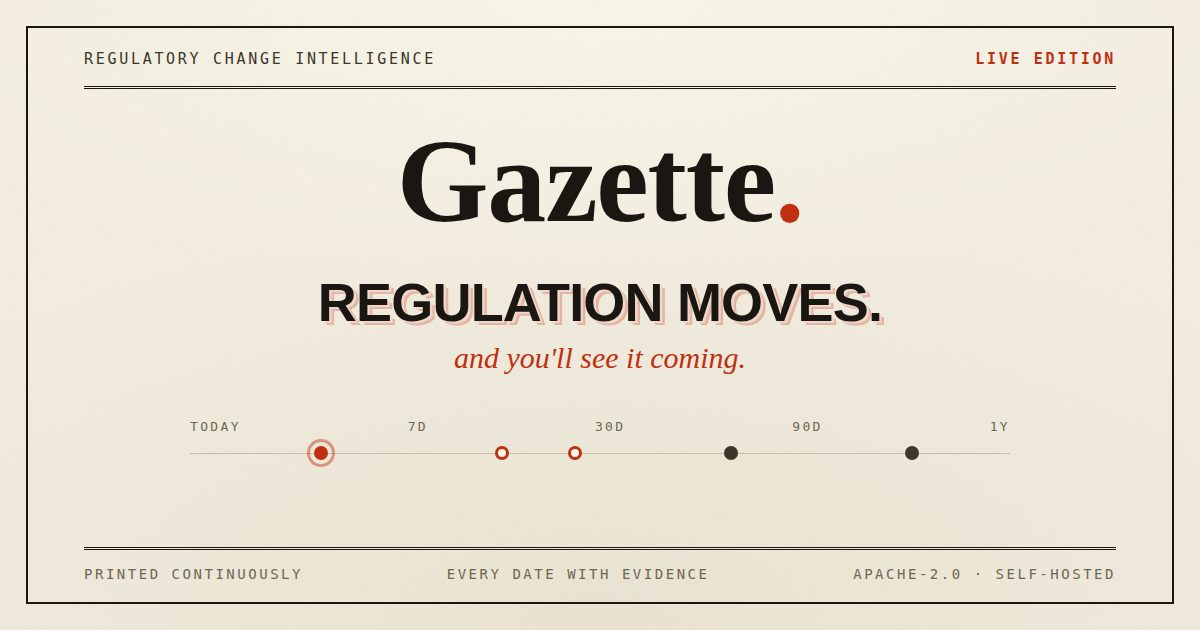
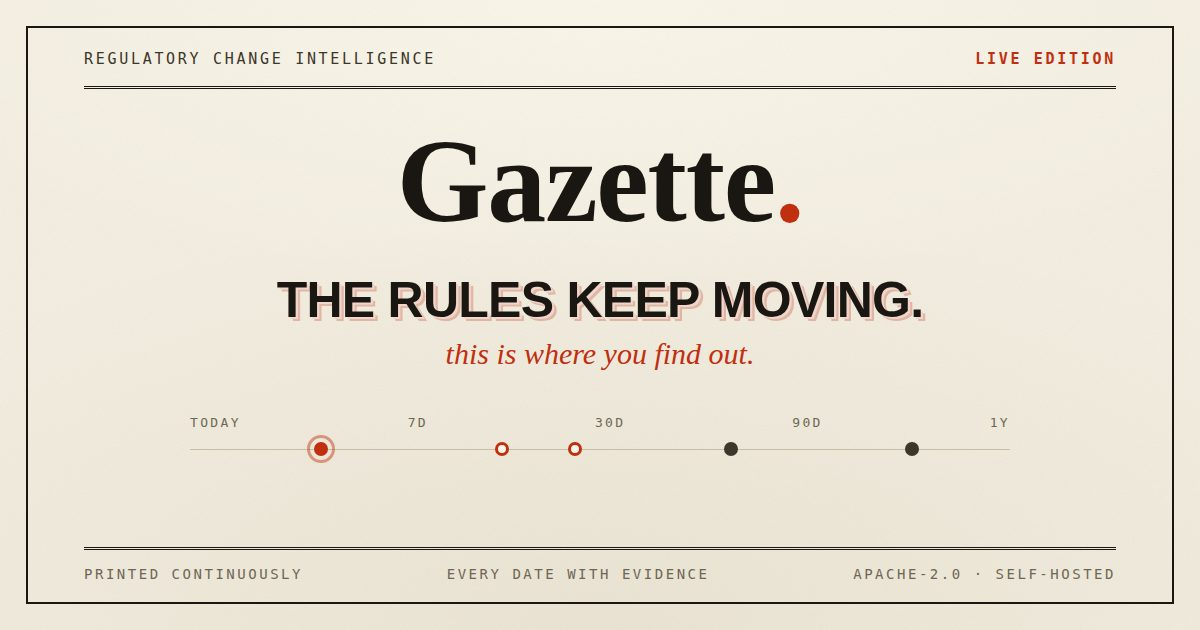
Front-page words match what the site does (v0.16.3)
Two bits of copy described the layout instead of the content:

- "In this edition" promised a table of contents, but the three columns
  under it are the statement of practice (sources, lifecycle, proof).
  The flag now reads "How Gazette works".
- "Regulation moves. / and you'll see it coming." was abstract where the
  site is concrete. Now "The rules keep moving. / this is where you find
  out." — a plain claim and a plain answer.

The social banner, meta description and og:image:alt carry the same
headline, so the shared card matches the page.

Claude-Session: https://claude.ai/code/session_01VNS4DZ7skgyy6P8QpP2oyk

Changed region(s): [[0.2158, 0.4222, 0.7708, 0.5127], [0.1542, 0.6635, 0.8325, 0.754], [0.37, 0.5429, 0.6167, 0.6032]]

diff --git a/src/oblag/web/templates/base.html b/src/oblag/web/templates/base.html
@@ -8,7 +8,7 @@
   {# Social cards: Open Graph carries Facebook, LinkedIn, Slack, Discord, WhatsApp,
      Telegram and iMessage; X reads its own twitter: names. Both mirror the SAME
      title, description and banner so a shared link renders identically everywhere. #}
-  <meta name="description" content="{% block meta_desc %}Regulation moves, and you'll see it coming. Gazette watches laws, frameworks and standards at their official sources — every change tracked, every date with evidence.{% endblock %}">
+  <meta name="description" content="{% block meta_desc %}The rules keep moving, and this is where you find out. Gazette watches laws, frameworks and standards at their official sources, tracks every change through its lifecycle, and shows where each date came from.{% endblock %}">
   {% set _base = site_base(request) %}
   {% set _canon = _base ~ request.url.path %}
   <link rel="canonical" href="{{ _canon }}">
@@ -20,7 +20,7 @@
   <meta property="og:image" content="{{ _base }}/og-banner.jpg">
   <meta property="og:image:width" content="1200">
   <meta property="og:image:height" content="630">
-  <meta property="og:image:alt" content="Gazette front page: Regulation moves, and you'll see it coming.">
+  <meta property="og:image:alt" content="Gazette front page: The rules keep moving, and this is where you find out.">
   <meta name="twitter:card" content="summary_large_image">
   <meta name="twitter:title" content="{{ self.title() }}">
   <meta name="twitter:description" content="{{ self.meta_desc() }}">

diff --git a/src/oblag/web/templates/home.html b/src/oblag/web/templates/home.html
@@ -207,8 +207,8 @@
       <div class="lead-story">
         {# no eyebrow: papers don't caption their own layout ("the lead" was newsroom
            jargon in print). The banner headline stands alone. #}
-        <h2 class="headline">Regulation moves.</h2>
-        <p class="deck">and you'll see it coming.</p>
+        <h2 class="headline">The rules keep moving.</h2>
+        <p class="deck">this is where you find out.</p>
         <p class="standfirst">Gazette watches {{ stats.obligations }} laws, frameworks and
         standards at their official sources. Every rulemaking, consultation and release gets
         tracked through its lifecycle, and every date comes with evidence you can check.</p>
@@ -270,7 +270,9 @@
 {% endif %}
 
 <section aria-label="How it works">
-  <div class="flag"><h2>In this edition</h2></div>
+  {# "In this edition" promised a table of contents; what follows is the statement of
+     practice (sources, lifecycle, proof), so the flag says what it actually heads. #}
+  <div class="flag"><h2>How Gazette works</h2></div>
   <div class="creed">
     <div class="c">
       <span class="cl-no">§ 1 · SOURCES</span>

diff --git a/tests/test_ux.py b/tests/test_ux.py
@@ -185,7 +185,7 @@ def test_homepage_is_a_live_landing_page(client, seeded):
     """/ is the front door: a hero radar drawn from real deadline data and live stat
     links into the app. Not a mock — the dots must be real item links."""
     html = client.get("/").text
-    assert "Regulation moves." in html
+    assert "The rules keep moving." in html
     # front-page furniture: nameplate, dateline, and the latest-filings briefs
     assert 'class="np-title"' in html and "Gazette" in html
     assert 'class="dateline"' in html
@@ -243,7 +243,7 @@ def test_latest_filings_orders_by_activity_not_id(client, seeded, db):
     db.commit()
 
     html = client.get("/").text
-    briefs = html.split("The latest filings")[1].split("In this edition")[0]
+    briefs = html.split("The latest filings")[1].split("How Gazette works")[0]
     first_link = re.search(r'href="/items/(\d+)"', briefs)
     assert first_link and int(first_link.group(1)) == oldest.id, (
         "the item with the newest activity should lead the briefs"
@@ -282,7 +282,7 @@ def test_latest_filings_ranks_by_source_publication_date(client, seeded, db):
     db.commit()
 
     html = client.get("/").text
-    briefs = html.split("The latest filings")[1].split("In this edition")[0]
+    briefs = html.split("The latest filings")[1].split("How Gazette works")[0]
     links = [int(m) for m in re.findall(r'href="/items/(\d+)"', briefs)]
     assert recent_id in links, "a recently published filing belongs in the briefs"
     assert backfilled_id not in links or links.index(recent_id) < links.index(backfilled_id), (

diff --git a/src/oblag/__init__.py b/src/oblag/__init__.py
@@ -1,3 +1,3 @@
 """Gazette: regulatory & framework change intelligence for GRC engineers."""
 
-__version__ = "0.16.2"
+__version__ = "0.16.3"
